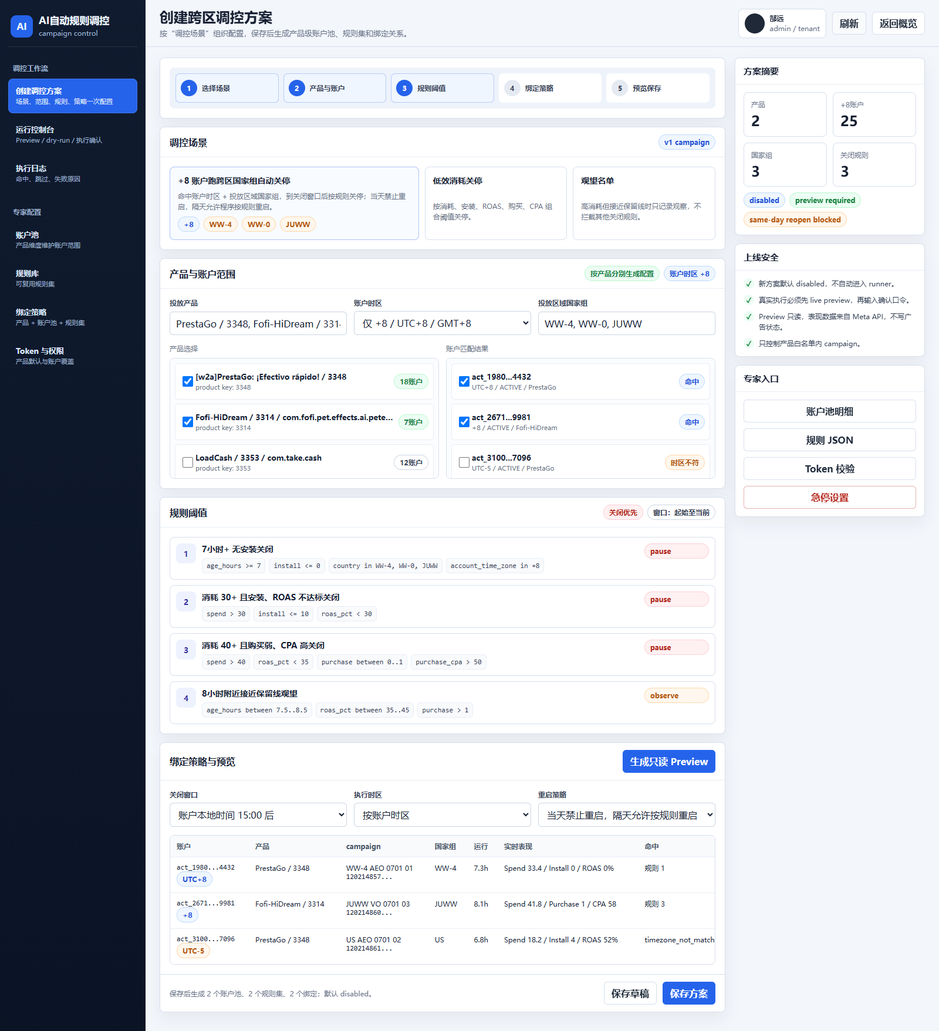
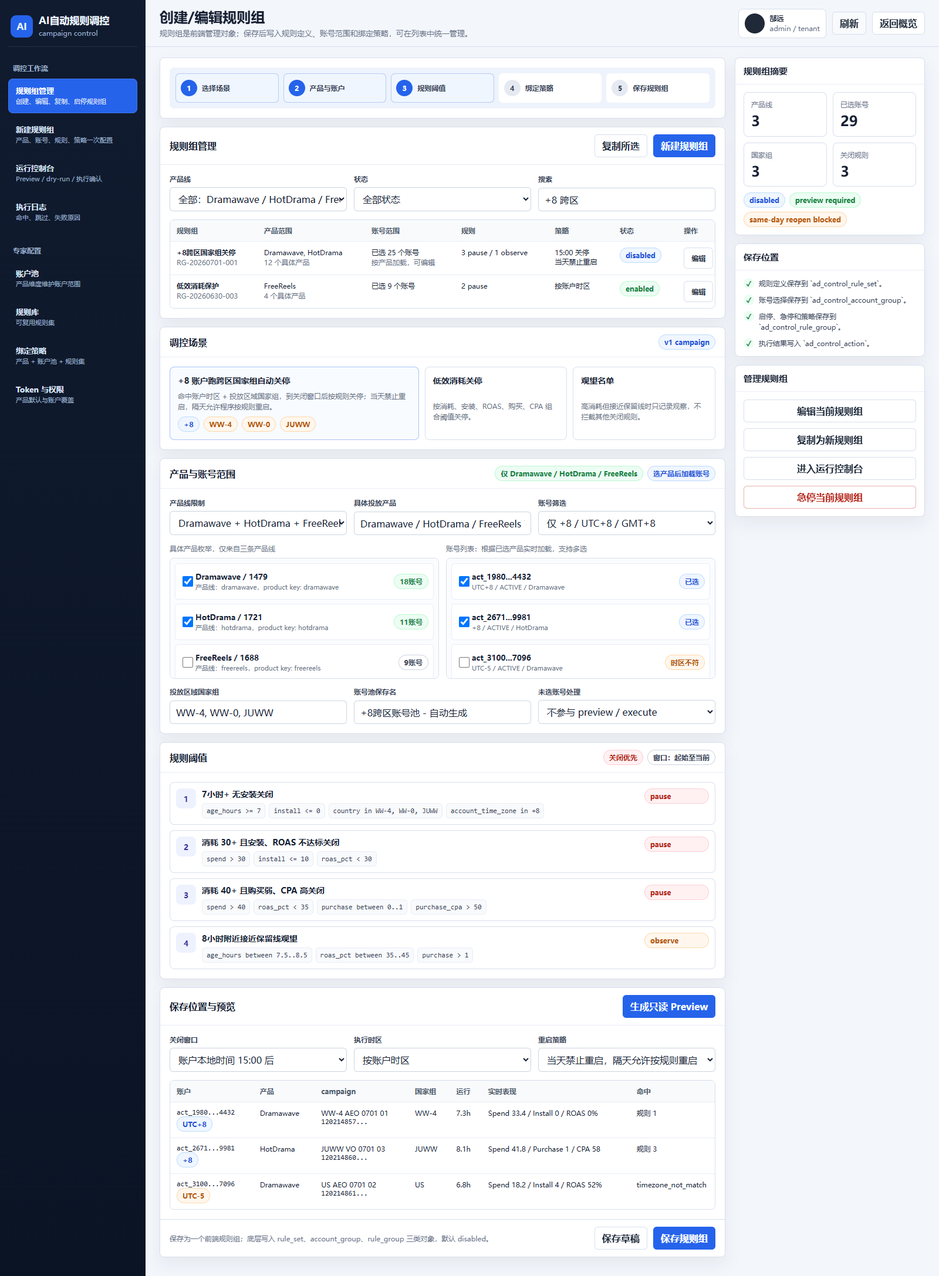
Refine ad control rule group prototype

diff --git a/doc/005.ai-auto-rule-control-frontend-redesign/prototype/ad-control-redesign-preview.html b/doc/005.ai-auto-rule-control-frontend-redesign/prototype/ad-control-redesign-preview.html
@@ -522,7 +522,8 @@
       </div>
       <nav class="nav-group">
         <div class="nav-title">调控工作流</div>
-        <a class="nav-item active" href="#"><strong>创建调控方案</strong><span>场景、范围、规则、策略一次配置</span></a>
+        <a class="nav-item active" href="#"><strong>规则组管理</strong><span>创建、编辑、复制、启停规则组</span></a>
+        <a class="nav-item" href="#"><strong>新建规则组</strong><span>产品、账号、规则、策略一次配置</span></a>
         <a class="nav-item" href="#"><strong>运行控制台</strong><span>Preview / dry-run / 执行确认</span></a>
         <a class="nav-item" href="#"><strong>执行日志</strong><span>命中、跳过、失败原因</span></a>
       </nav>
@@ -537,8 +538,8 @@
     <main class="main">
       <header class="topbar">
         <div class="title">
-          <h1>创建跨区调控方案</h1>
-          <p>按“调控场景”组织配置，保存后生成产品级账户池、规则集和绑定关系。</p>
+          <h1>创建/编辑规则组</h1>
+          <p>规则组是前端管理对象；保存后写入规则定义、账号范围和绑定策略，可在列表中统一管理。</p>
         </div>
         <div class="top-actions">
           <div class="user-card"><div class="avatar"></div><div><strong>郜远</strong><br><span class="muted">admin / tenant</span></div></div>
@@ -555,10 +556,33 @@
                 <div class="step active"><b>2</b><strong>产品与账户</strong></div>
                 <div class="step active"><b>3</b><strong>规则阈值</strong></div>
                 <div class="step"><b>4</b><strong>绑定策略</strong></div>
-                <div class="step"><b>5</b><strong>预览保存</strong></div>
+                <div class="step"><b>5</b><strong>保存规则组</strong></div>
               </div>
             </div>
           </div>
+
+          <section class="panel">
+            <div class="panel-head">
+              <h2>规则组管理</h2>
+              <div class="top-actions"><button class="btn">复制所选</button><button class="btn primary">新建规则组</button></div>
+            </div>
+            <div class="panel-body">
+              <div class="grid">
+                <div class="field"><label>产品线</label><select><option>全部：Dramawave / HotDrama / FreeReels</option></select></div>
+                <div class="field"><label>状态</label><select><option>全部状态</option><option>草稿</option><option>禁用</option><option>启用</option><option>急停</option></select></div>
+                <div class="field"><label>搜索</label><input value="+8 跨区" /></div>
+              </div>
+              <div class="table-wrap">
+                <table>
+                  <thead><tr><th>规则组</th><th>产品范围</th><th>账号范围</th><th>规则</th><th>策略</th><th>状态</th><th>操作</th></tr></thead>
+                  <tbody>
+                    <tr><td><strong>+8跨区国家组关停</strong><br><span class="muted">RG-20260701-001</span></td><td>Dramawave, HotDrama<br><span class="muted">12 个具体产品</span></td><td>已选 25 个账号<br><span class="muted">按产品加载，可编辑</span></td><td>3 pause / 1 observe</td><td>15:00 关停<br>当天禁止重启</td><td><span class="pill blue">disabled</span></td><td><button class="btn">编辑</button> <button class="btn">Preview</button></td></tr>
+                    <tr><td><strong>低效消耗保护</strong><br><span class="muted">RG-20260630-003</span></td><td>FreeReels<br><span class="muted">4 个具体产品</span></td><td>已选 9 个账号</td><td>2 pause</td><td>按账户时区</td><td><span class="pill green">enabled</span></td><td><button class="btn">编辑</button> <button class="btn danger">急停</button></td></tr>
+                  </tbody>
+                </table>
+              </div>
+            </div>
+          </section>
 
           <section class="panel">
             <div class="panel-head">
@@ -586,41 +610,46 @@
 
           <section class="panel">
             <div class="panel-head">
-              <h2>产品与账户范围</h2>
-              <div class="pill-row"><span class="pill green">按产品分别生成配置</span><span class="pill blue">账户时区 +8</span></div>
+              <h2>产品与账号范围</h2>
+              <div class="pill-row"><span class="pill green">仅 Dramawave / HotDrama / FreeReels</span><span class="pill blue">选产品后加载账号</span></div>
             </div>
             <div class="panel-body">
               <div class="grid">
                 <div class="field">
-                  <label>投放产品</label>
-                  <input value="PrestaGo / 3348, Fofi-HiDream / 3314" />
+                  <label>产品线限制</label>
+                  <select><option>Dramawave + HotDrama + FreeReels</option></select>
                 </div>
                 <div class="field">
-                  <label>账户时区</label>
+                  <label>具体投放产品</label>
+                  <input value="Dramawave / HotDrama / FreeReels 下属产品多选" />
+                </div>
+                <div class="field">
+                  <label>账号筛选</label>
                   <select><option>仅 +8 / UTC+8 / GMT+8</option></select>
-                </div>
-                <div class="field">
-                  <label>投放区域国家组</label>
-                  <input value="WW-4, WW-0, JUWW" />
                 </div>
               </div>
               <div class="grid two">
                 <div>
-                  <div class="muted" style="margin-bottom: 7px;">产品选择</div>
+                  <div class="muted" style="margin-bottom: 7px;">具体产品枚举，仅来自三条产品线</div>
                   <div class="selection-box">
-                    <label class="selection-item"><input type="checkbox" checked /><div><strong>[w2a]PrestaGo: ¡Efectivo rápido! / 3348</strong><small>product key: 3348</small></div><span class="pill green">18账户</span></label>
-                    <label class="selection-item"><input type="checkbox" checked /><div><strong>Fofi-HiDream / 3314 / com.fofi.pet.effects.ai.peteffects</strong><small>product key: 3314</small></div><span class="pill green">7账户</span></label>
-                    <label class="selection-item"><input type="checkbox" /><div><strong>LoadCash / 3353 / com.take.cash</strong><small>product key: 3353</small></div><span class="pill">12账户</span></label>
+                    <label class="selection-item"><input type="checkbox" checked /><div><strong>Dramawave / 1479</strong><small>产品线：dramawave，product key: dramawave</small></div><span class="pill green">18账号</span></label>
+                    <label class="selection-item"><input type="checkbox" checked /><div><strong>HotDrama / 1721</strong><small>产品线：hotdrama，product key: hotdrama</small></div><span class="pill green">11账号</span></label>
+                    <label class="selection-item"><input type="checkbox" /><div><strong>FreeReels / 1688</strong><small>产品线：freereels，product key: freereels</small></div><span class="pill">9账号</span></label>
                   </div>
                 </div>
                 <div>
-                  <div class="muted" style="margin-bottom: 7px;">账户匹配结果</div>
+                  <div class="muted" style="margin-bottom: 7px;">账号列表：根据已选产品实时加载，支持多选</div>
                   <div class="selection-box">
-                    <label class="selection-item"><input type="checkbox" checked /><div><strong>act_1980...4432</strong><small>UTC+8 / ACTIVE / PrestaGo</small></div><span class="pill blue">命中</span></label>
-                    <label class="selection-item"><input type="checkbox" checked /><div><strong>act_2671...9981</strong><small>+8 / ACTIVE / Fofi-HiDream</small></div><span class="pill blue">命中</span></label>
-                    <label class="selection-item"><input type="checkbox" /><div><strong>act_3100...7096</strong><small>UTC-5 / ACTIVE / PrestaGo</small></div><span class="pill amber">时区不符</span></label>
+                    <label class="selection-item"><input type="checkbox" checked /><div><strong>act_1980...4432</strong><small>UTC+8 / ACTIVE / Dramawave</small></div><span class="pill blue">已选</span></label>
+                    <label class="selection-item"><input type="checkbox" checked /><div><strong>act_2671...9981</strong><small>+8 / ACTIVE / HotDrama</small></div><span class="pill blue">已选</span></label>
+                    <label class="selection-item"><input type="checkbox" /><div><strong>act_3100...7096</strong><small>UTC-5 / ACTIVE / Dramawave</small></div><span class="pill amber">时区不符</span></label>
                   </div>
                 </div>
+              </div>
+              <div class="grid">
+                <div class="field"><label>投放区域国家组</label><input value="WW-4, WW-0, JUWW" /></div>
+                <div class="field"><label>账号池保存名</label><input value="+8跨区账号池 - 自动生成" /></div>
+                <div class="field"><label>未选账号处理</label><select><option>不参与 preview / execute</option></select></div>
               </div>
             </div>
           </section>
@@ -670,7 +699,7 @@
 
           <section class="panel">
             <div class="panel-head">
-              <h2>绑定策略与预览</h2>
+              <h2>保存位置与预览</h2>
               <button class="btn primary">生成只读 Preview</button>
             </div>
             <div class="panel-body">
@@ -683,27 +712,27 @@
                 <table>
                   <thead><tr><th>账户</th><th>产品</th><th>campaign</th><th>国家组</th><th>运行</th><th>实时表现</th><th>命中</th><th>动作</th></tr></thead>
                   <tbody>
-                    <tr><td><div class="mono">act_1980...4432</div><span class="pill blue">UTC+8</span></td><td>PrestaGo / 3348</td><td><div>WW-4 AEO 0701 01</div><div class="mono">120214857...</div></td><td>WW-4</td><td>7.3h</td><td>Spend 33.4 / Install 0 / ROAS 0%</td><td>规则 1</td><td><span class="pill red">pause</span></td></tr>
-                    <tr><td><div class="mono">act_2671...9981</div><span class="pill blue">+8</span></td><td>Fofi-HiDream / 3314</td><td><div>JUWW VO 0701 03</div><div class="mono">120214860...</div></td><td>JUWW</td><td>8.1h</td><td>Spend 41.8 / Purchase 1 / CPA 58</td><td>规则 3</td><td><span class="pill red">pause</span></td></tr>
-                    <tr><td><div class="mono">act_3100...7096</div><span class="pill amber">UTC-5</span></td><td>PrestaGo / 3348</td><td><div>US AEO 0701 02</div><div class="mono">120214861...</div></td><td>US</td><td>6.8h</td><td>Spend 18.2 / Install 4 / ROAS 52%</td><td>timezone_not_match</td><td><span class="pill">skip</span></td></tr>
+                    <tr><td><div class="mono">act_1980...4432</div><span class="pill blue">UTC+8</span></td><td>Dramawave</td><td><div>WW-4 AEO 0701 01</div><div class="mono">120214857...</div></td><td>WW-4</td><td>7.3h</td><td>Spend 33.4 / Install 0 / ROAS 0%</td><td>规则 1</td><td><span class="pill red">pause</span></td></tr>
+                    <tr><td><div class="mono">act_2671...9981</div><span class="pill blue">+8</span></td><td>HotDrama</td><td><div>JUWW VO 0701 03</div><div class="mono">120214860...</div></td><td>JUWW</td><td>8.1h</td><td>Spend 41.8 / Purchase 1 / CPA 58</td><td>规则 3</td><td><span class="pill red">pause</span></td></tr>
+                    <tr><td><div class="mono">act_3100...7096</div><span class="pill amber">UTC-5</span></td><td>Dramawave</td><td><div>US AEO 0701 02</div><div class="mono">120214861...</div></td><td>US</td><td>6.8h</td><td>Spend 18.2 / Install 4 / ROAS 52%</td><td>timezone_not_match</td><td><span class="pill">skip</span></td></tr>
                   </tbody>
                 </table>
               </div>
             </div>
             <div class="footer-actions">
-              <span class="muted">保存后生成 2 个账户池、2 个规则集、2 个绑定；默认 disabled。</span>
-              <div class="top-actions"><button class="btn">保存草稿</button><button class="btn primary">保存方案</button></div>
+              <span class="muted">保存为一个前端规则组；底层写入 rule_set、account_group、rule_group 三类对象，默认 disabled。</span>
+              <div class="top-actions"><button class="btn">保存草稿</button><button class="btn primary">保存规则组</button></div>
             </div>
           </section>
         </section>
 
         <aside class="rail">
           <div class="rail-card">
-            <h3>方案摘要</h3>
+            <h3>规则组摘要</h3>
             <div class="rail-body">
               <div class="status-card">
-                <div class="metric"><span>产品</span><strong>2</strong></div>
-                <div class="metric"><span>+8账户</span><strong>25</strong></div>
+                <div class="metric"><span>产品线</span><strong>3</strong></div>
+                <div class="metric"><span>已选账号</span><strong>29</strong></div>
                 <div class="metric"><span>国家组</span><strong>3</strong></div>
                 <div class="metric"><span>关闭规则</span><strong>3</strong></div>
               </div>
@@ -711,21 +740,21 @@
             </div>
           </div>
           <div class="rail-card">
-            <h3>上线安全</h3>
+            <h3>保存位置</h3>
             <div class="rail-body">
-              <div class="checkline"><b>✓</b><span>新方案默认 disabled，不自动进入 runner。</span></div>
-              <div class="checkline"><b>✓</b><span>真实执行必须先 live preview，再输入确认口令。</span></div>
-              <div class="checkline"><b>✓</b><span>Preview 只读，表现数据来自 Meta API，不写广告状态。</span></div>
-              <div class="checkline"><b>✓</b><span>只控制产品白名单内 campaign。</span></div>
+              <div class="checkline"><b>✓</b><span>规则定义保存到 `ad_control_rule_set`。</span></div>
+              <div class="checkline"><b>✓</b><span>账号选择保存到 `ad_control_account_group`。</span></div>
+              <div class="checkline"><b>✓</b><span>启停、急停和策略保存到 `ad_control_rule_group`。</span></div>
+              <div class="checkline"><b>✓</b><span>执行结果写入 `ad_control_action`。</span></div>
             </div>
           </div>
           <div class="rail-card">
-            <h3>专家入口</h3>
+            <h3>管理规则组</h3>
             <div class="rail-body">
-              <button class="btn">账户池明细</button>
-              <button class="btn">规则 JSON</button>
-              <button class="btn">Token 校验</button>
-              <button class="btn danger">急停设置</button>
+              <button class="btn">编辑当前规则组</button>
+              <button class="btn">复制为新规则组</button>
+              <button class="btn">进入运行控制台</button>
+              <button class="btn danger">急停当前规则组</button>
             </div>
           </div>
         </aside>

diff --git a/doc/005.ai-auto-rule-control-frontend-redesign/requirements.md b/doc/005.ai-auto-rule-control-frontend-redesign/requirements.md
@@ -6,7 +6,7 @@
 本次先做前端重设计评审，不直接改线上页面、不触发广告动作。
 
 ## 目标
-- 重新按运营工作流组织页面：先创建调控方案，再进入专家配置和运行审计。
+- 重新按运营工作流组织页面：先管理规则组，再进入创建/编辑、运行控制台和执行日志。
 - 让“+8 账户跑跨区国家组关停”成为一条可理解、可保存、可 preview 的方案，而不是散落的 JSON 表单。
 - 保留已有安全约束：新方案默认 disabled，真实执行必须先 preview。
 - 保留公共 AI 后台 shell：`quick-nav.js`、`ui-topbar.css`、`ui-topbar.js`。
@@ -16,7 +16,7 @@
 ### 包含
 - 新增前端原型：`prototype/ad-control-redesign-preview.html`。
 - 设计新的导航信息架构。
-- 设计“创建调控方案”向导页面。
+- 设计“规则组管理 + 创建/编辑规则组”页面。
 - 设计专家配置入口：账户池、规则库、绑定策略、Token 与权限。
 - 设计运行控制台和执行日志在新工作流中的位置。
 
@@ -27,17 +27,21 @@
 - 不执行 Meta preview/execute。
 
 ## 用户故事 / 业务规则
-- 运营进入调控中心后，优先看到“创建调控方案”，按场景完成配置。
+- 运营进入调控中心后，优先看到“规则组管理”，可以新建、编辑、复制、删除、启停、急停多个规则组。
 - 运营选择跨区场景后，可以一次性配置：产品、账户时区、国家组、规则阈值、关闭窗口、重启策略。
-- 系统保存时仍按现有架构生成单产品账户池、规则集和绑定关系。
+- 产品枚举只显示 `dramawave`、`hotdrama`、`freereels` 三条产品线对应的全部具体产品。
+- 账号列表在选择具体产品后加载，只显示所选产品下的账号，并支持多选。
+- 前端展示一个“规则组”，保存时仍按现有架构写入规则定义、账号范围和绑定关系。
 - 专家可以进入账户池、规则库、绑定策略、Token 与权限页面做细节维护。
 - 运行人员进入运行控制台做 live preview、dry-run、真实确认执行和急停。
 
 ## 交互与流程
 1. 选择调控场景：默认突出“+8 账户跑跨区国家组自动关停”。
-2. 选择产品与账户范围：
+2. 选择产品与账号范围：
+   - 先限定产品线：`dramawave`、`hotdrama`、`freereels`。
+   - 具体产品枚举只来自这三条产品线下的产品，不展示其他业务产品。
    - 产品使用 `label` 展示，`product` key 作为值。
-   - 账户按产品分组，支持 +8 时区筛选。
+   - 账号在选择产品后按产品加载，支持多选和 +8 时区筛选。
    - 国家组使用 `ads_facebook_auto_created_data.country`，如 `WW-4`、`WW-0`、`JUWW`。
 3. 配置规则阈值：
    - 用可视化规则行展示条件，不默认暴露 JSON。
@@ -49,9 +53,13 @@
    - 隔天允许按规则重启。
 5. 生成只读 preview：
    - 展示账户、产品、campaign、国家组、运行时长、实时表现、命中规则、动作。
-6. 保存方案：
+6. 保存规则组：
    - 默认 disabled。
-   - 生成产品级账户池、规则集、绑定关系。
+   - 前端列表展示为一个规则组。
+   - 底层生成或更新 `ad_control_rule_set`、`ad_control_account_group`、`ad_control_rule_group`。
+7. 管理多个规则组：
+   - 规则组列表展示名称、产品范围、账号范围、规则数量、策略、状态。
+   - 支持编辑、复制、删除/软删除、启用/禁用、急停、Preview、进入运行控制台、查看日志。
 
 ## 技术设计
 
@@ -73,6 +81,13 @@
 - `ad_control_rule_group`：绑定策略。
 - `strategy_json`：关闭时间、执行时区、同日禁止重启、隔天允许重启、国家组。
 
+前端对象映射：
+- 用户看到的“规则组”是一个聚合对象。
+- 规则条件保存到 `ad_control_rule_set.rules_json`。
+- 已选账号保存到 `ad_control_account_group.account_ids_json`。
+- 启停、急停、策略、产品和关联关系保存到 `ad_control_rule_group`。
+- 执行日志保存到 `ad_control_action`。
+
 ### API / 接口
 原型阶段无接口变更。
 
@@ -86,6 +101,8 @@
 
 ### 异常与边界
 - 不允许把多个产品保存成一个绑定；多产品仍批量生成单产品配置。
+- 产品选择器必须只枚举 `dramawave`、`hotdrama`、`freereels` 三条产品线对应的产品。
+- 账号列表必须依赖已选产品加载，不能展示全量账号。
 - 不按 campaign 命名判断国家组。
 - 不展示明文 token。
 - 新方案默认 disabled。
@@ -93,16 +110,17 @@
 
 ## 验收标准
 - 用户能一眼看出“先建方案，再运行 preview/execute”的主流程。
+- 用户能在规则组列表中管理多个规则组，并明确知道保存位置。
 - 跨区配置不需要直接编辑 JSON。
-- 产品、账户、国家组、规则、绑定策略在一个方案视角下可理解。
+- 产品、账号、国家组、规则、绑定策略在一个规则组视角下可理解。
 - 专家配置页仍可单独维护底层对象。
 - 页面保持 AI 后台公共顶吸和快速导航风格。
 - 不产生任何广告动作。
 
 ## 风险与待确认
-- 是否新增 `/ad-control-plans.html` 作为“创建调控方案”页面，还是复用 `/ad-control.html` 作为工作台入口。
+- 是否新增 `/ad-control-rule-groups.html` 作为“规则组管理”页面，还是复用现有 `/ad-control-rules.html`。
 - 规则可视化编辑是否需要支持全部操作符，还是 v1 只支持常见阈值条件。
-- 方案草稿是否需要后端持久化，还是保存时直接生成账户池/规则集/绑定。
+- 规则组草稿是否需要后端持久化，还是保存时直接生成账户池/规则集/绑定。
 
 ## 变更记录
 - 2026-07-01：创建前端重设计需求和静态原型，等待评审。

diff --git a/doc/005.ai-auto-rule-control-frontend-redesign/sa-review.md b/doc/005.ai-auto-rule-control-frontend-redesign/sa-review.md
@@ -1,7 +1,7 @@
 # SA 评审意见
 
 ## 结论
-初步通过进入产品评审。新方案把页面重心从表单 CRUD 调整为“调控方案向导”，符合运营创建跨区规则的实际路径；同时保留账户池、规则库、绑定策略等专家页面，不破坏现有后端模型。
+初步通过进入产品评审。新方案把页面重心从表单 CRUD 调整为“规则组管理 + 创建/编辑规则组”，符合运营维护多个规则组的实际路径；同时保留账户池、规则库、绑定策略等底层对象，不破坏现有后端模型。
 
 ## 问题清单
 
@@ -10,10 +10,13 @@
 | SA-001 | P1 | 导航 | 当前线上已有 7 个页面，直接新增方案向导可能让导航过长 | 将导航分为“调控工作流”和“专家配置”，概览页只做状态和入口 | 待确认 |
 | SA-002 | P1 | 规则编辑 | 可视化规则编辑不能丢失 JSON 高级能力 | 普通模式展示规则行，高级模式可展开 JSON | 待确认 |
 | SA-003 | P2 | 草稿 | 多步骤方案未完成时是否需要保存草稿 | 如运营会跨天配置，建议增加草稿状态；否则先不做 | 待确认 |
+| SA-004 | P0 | 产品枚举 | 产品不能展示全部业务产品 | 后端 products API 或前端请求参数必须限制到 dramawave/hotdrama/freereels 产品线 | 已纳入 |
+| SA-005 | P0 | 账号范围 | 账号不能全量展示 | 账号列表必须依赖已选产品加载，并支持多选 | 已纳入 |
 
 ## 决策记录
 - 原型阶段不改线上、不部署。
 - 调控方案保存后仍生成产品级账户池、规则集和绑定关系。
+- 前端统一叫“规则组”，底层映射到 rule_set、account_group、rule_group。
 - 跨区判断继续使用 `country` 和 `account_time_zone`。
 
 ## PM 修订确认

diff --git a/doc/005.ai-auto-rule-control-frontend-redesign/test-cases.md b/doc/005.ai-auto-rule-control-frontend-redesign/test-cases.md
@@ -5,7 +5,7 @@
 
 ## 测试数据
 - 原型文件：`doc/005.ai-auto-rule-control-frontend-redesign/prototype/ad-control-redesign-preview.html`
-- 示例产品：`[w2a]PrestaGo / 3348`、`Fofi-HiDream / 3314`
+- 示例产品线：`dramawave`、`hotdrama`、`freereels`
 - 示例国家组：`WW-4`、`WW-0`、`JUWW`
 
 ## 用例列表
@@ -17,6 +17,9 @@
 | TC-003 | 跨区配置完整 | 原型打开 | 查看场景、产品、账户、国家组、规则、策略 | 覆盖 +8、国家组、关闭窗口、重启策略 | P0 | 待评审 |
 | TC-004 | 专家页不混乱 | 原型打开 | 查看右侧专家入口和侧边导航 | 专家配置与主流程分离 | P1 | 待评审 |
 | TC-005 | 安全边界明确 | 原型打开 | 查看方案摘要和上线安全 | 显示 disabled、preview required、同日禁止重启等状态 | P0 | 通过 |
+| TC-006 | 产品枚举限制 | 原型打开 | 查看产品与账号范围 | 只展示 dramawave/hotdrama/freereels 对应产品，不展示其他业务产品 | P0 | 待评审 |
+| TC-007 | 账号按产品加载 | 原型打开 | 查看账号列表说明 | 账号列表依赖已选产品加载，支持多选 | P0 | 待评审 |
+| TC-008 | 多规则组管理 | 原型打开 | 查看规则组管理表格 | 可理解规则组保存后在列表中编辑、复制、启停、急停、Preview | P0 | 待评审 |
 
 ## 回归范围
 后续正式实现时回归：

diff --git a/doc/005.ai-auto-rule-control-frontend-redesign/api-doc.md b/doc/005.ai-auto-rule-control-frontend-redesign/api-doc.md
@@ -4,7 +4,7 @@
 原型阶段无新增 API。
 
 后续正式实现优先复用：
-- `GET /api/ad-control/products`
+- `GET /api/ad-control/products?families=dramawave,hotdrama,freereels`
 - `GET /api/ad-control/accounts?product=...`
 - `GET/POST /api/ad-control/account-groups`
 - `GET/POST /api/ad-control/rule-sets`
@@ -12,10 +12,12 @@
 - `POST /api/ad-control/bindings/{id}/preview-live`
 
 ## 请求/响应
-无变更。
+计划变更：
+- 产品列表增加产品线过滤参数，默认仅返回 `dramawave`、`hotdrama`、`freereels` 对应产品。
+- 账号列表继续按 `product` 查询；前端多产品选择时分产品并发加载账号，合并展示但保留产品归属。
 
 ## 错误码
 无变更。
 
 ## 兼容性说明
-新前端必须兼容现有数据模型，不破坏旧页面缓存和旧 API。
+新前端必须兼容现有数据模型，不破坏旧页面缓存和旧 API。若后端暂未支持 `families` 参数，前端可以先基于返回字段做保守过滤，但最终以后端过滤为准。

diff --git a/doc/005.ai-auto-rule-control-frontend-redesign/dev-plan.md b/doc/005.ai-auto-rule-control-frontend-redesign/dev-plan.md
@@ -9,7 +9,8 @@
 | --- | --- | --- | --- |
 | 梳理现有前端问题 | Codex | `static/ad-control-pages.js` | 完成 |
 | 创建需求目录 | Codex | `doc/005...` | 完成 |
-| 设计方案向导原型 | Codex | `prototype/ad-control-redesign-preview.html` | 完成 |
+| 设计规则组管理原型 | Codex | `prototype/ad-control-redesign-preview.html` | 完成 |
+| 补充产品枚举和账号加载口径 | Codex | `requirements.md`、原型 | 完成 |
 | 补充评审文档 | Codex | `requirements.md`、`sa-review.md` | 完成 |
 | 用户评审 | 用户 | 原型页面 | 待确认 |
 | 正式实现 | Codex | `static/*`、必要 API | 待评审后执行 |
@@ -29,3 +30,4 @@ node --check static/ad-control-pages.js
 
 ## 完成记录
 2026-07-01：完成静态原型，等待评审。
+2026-07-01：按反馈调整为规则组管理口径，补充产品线限制和账号按产品加载。

diff --git a/doc/005.ai-auto-rule-control-frontend-redesign/test-report.md b/doc/005.ai-auto-rule-control-frontend-redesign/test-report.md
@@ -1,7 +1,7 @@
 # 测试报告
 
 ## 测试结论
-原型静态渲染通过，等待用户评审信息架构和页面布局。
+原型静态渲染通过，已按反馈补充产品枚举限制、账号按产品加载和规则组管理口径，等待用户评审信息架构和页面布局。
 
 ## 测试范围
 静态原型页面。
